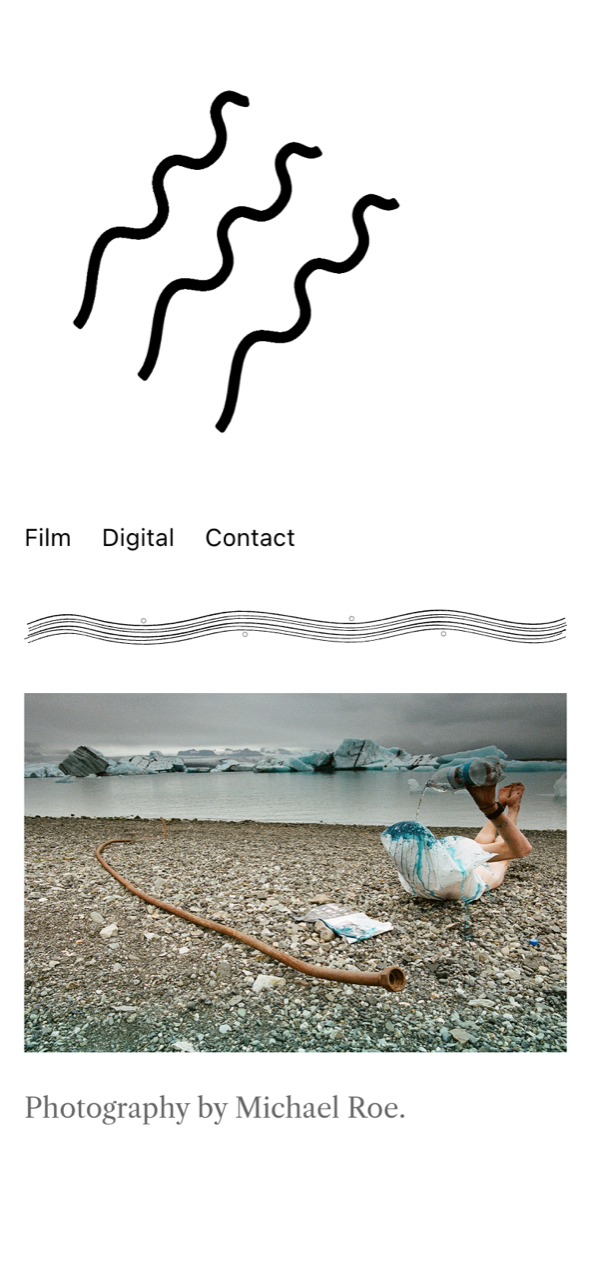
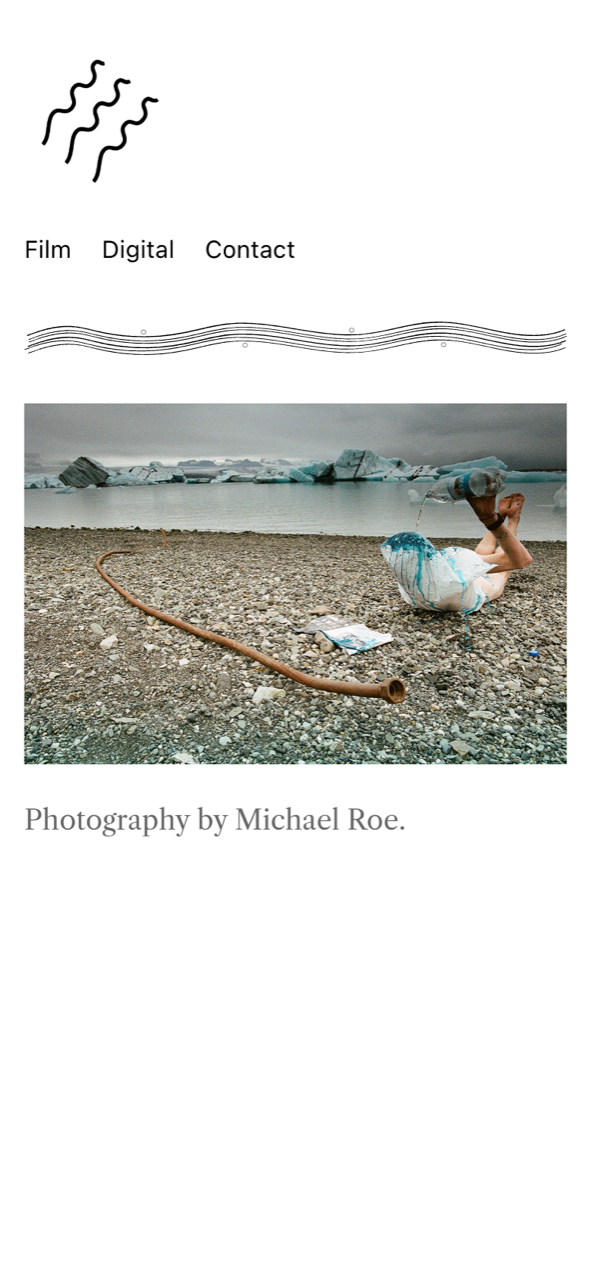
Shrink wordmark to match the original Muse proportion
The wordmark SVG was rendering at 280px wide and dominating the
page, where the original Muse layout sized it at 164px (per the
data-image-width/height attrs Muse left on the <img>). The mark
was always meant as a small top-left accent, not the brand heading
— the original page used a separate "Michael Roe Portfolio" text
for that.

Drop max-width to 100px so the wordmark reads as an accent again
and the hero photo / nav can carry the visual weight. Also retake
the three after-* screenshots so the PR description shows the new
look.

diff --git a/css/style.css b/css/style.css
@@ -46,10 +46,10 @@ img { max-width: 100%; height: auto; display: block; }
 .wordmark {
   display: block;
   width: 100%;
-  max-width: 280px;
-  margin: 0 0 1.25rem;
+  max-width: 100px;
+  margin: 0 0 1rem;
 }
-.wordmark img { width: 100%; height: auto; }
+.wordmark img { width: 100%; height: auto; display: block; }
 
 .site-nav {
   display: flex;
